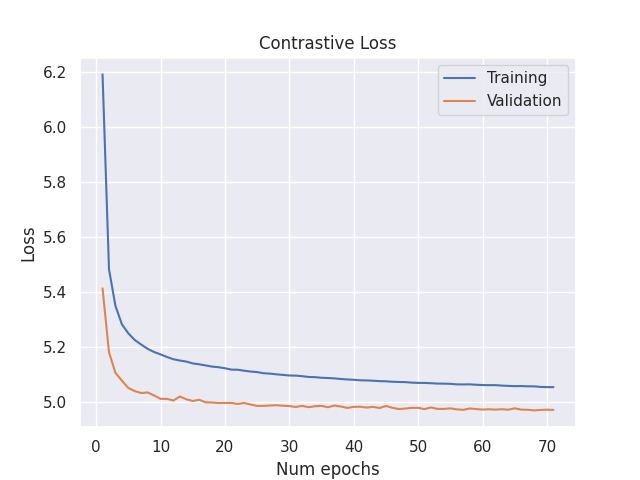
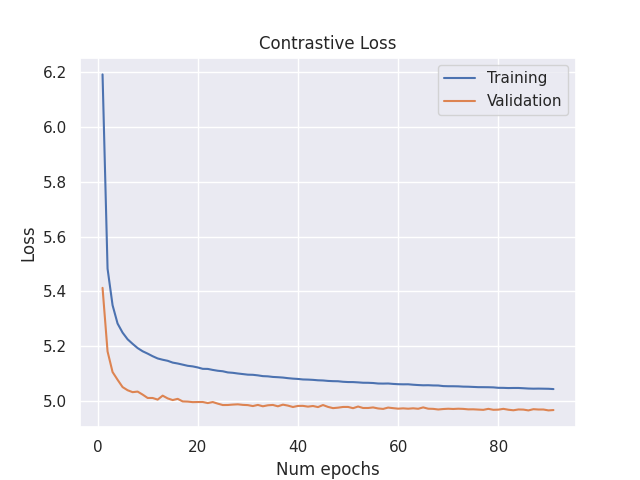
update plots and training script

diff --git a/train_contrastive.py b/train_contrastive.py
@@ -111,13 +111,13 @@ def run_training(
 
         if (epoch + 1) % 10 == 0:
             print(f"Saved model after {epoch+1} epochs!")
-            model_path = f"models/encoder_{epoch+1}epochs_pretrained.pth"
+            model_path = f"models/encoder_{epoch+1}epochs_large.pth"
             torch.save(model.encoder, model_path)
 
             plot_results(
                 training_losses=training_losses,
                 validation_losses=validation_losses,
-                save_path="contrastive_loss_pretrained.png",
+                save_path="plots/contrastive_loss_large.png",
             )
 
         print(
@@ -128,7 +128,7 @@ def run_training(
         )
 
     print(f"Saved model after {num_epochs} epochs!")
-    model_path = f"models/encoder_{num_epochs}epochs_pretrained.pth"
+    model_path = f"models/encoder_{num_epochs}epochs_large.pth"
     torch.save(model.encoder, model_path)
 
     return training_losses, validation_losses
@@ -205,7 +205,7 @@ def main():
     plot_results(
         training_losses=training_losses,
         validation_losses=validation_losses,
-        save_path="plots/contrastive_loss.png",
+        save_path="plots/contrastive_loss_large.png",
     )
 
 
